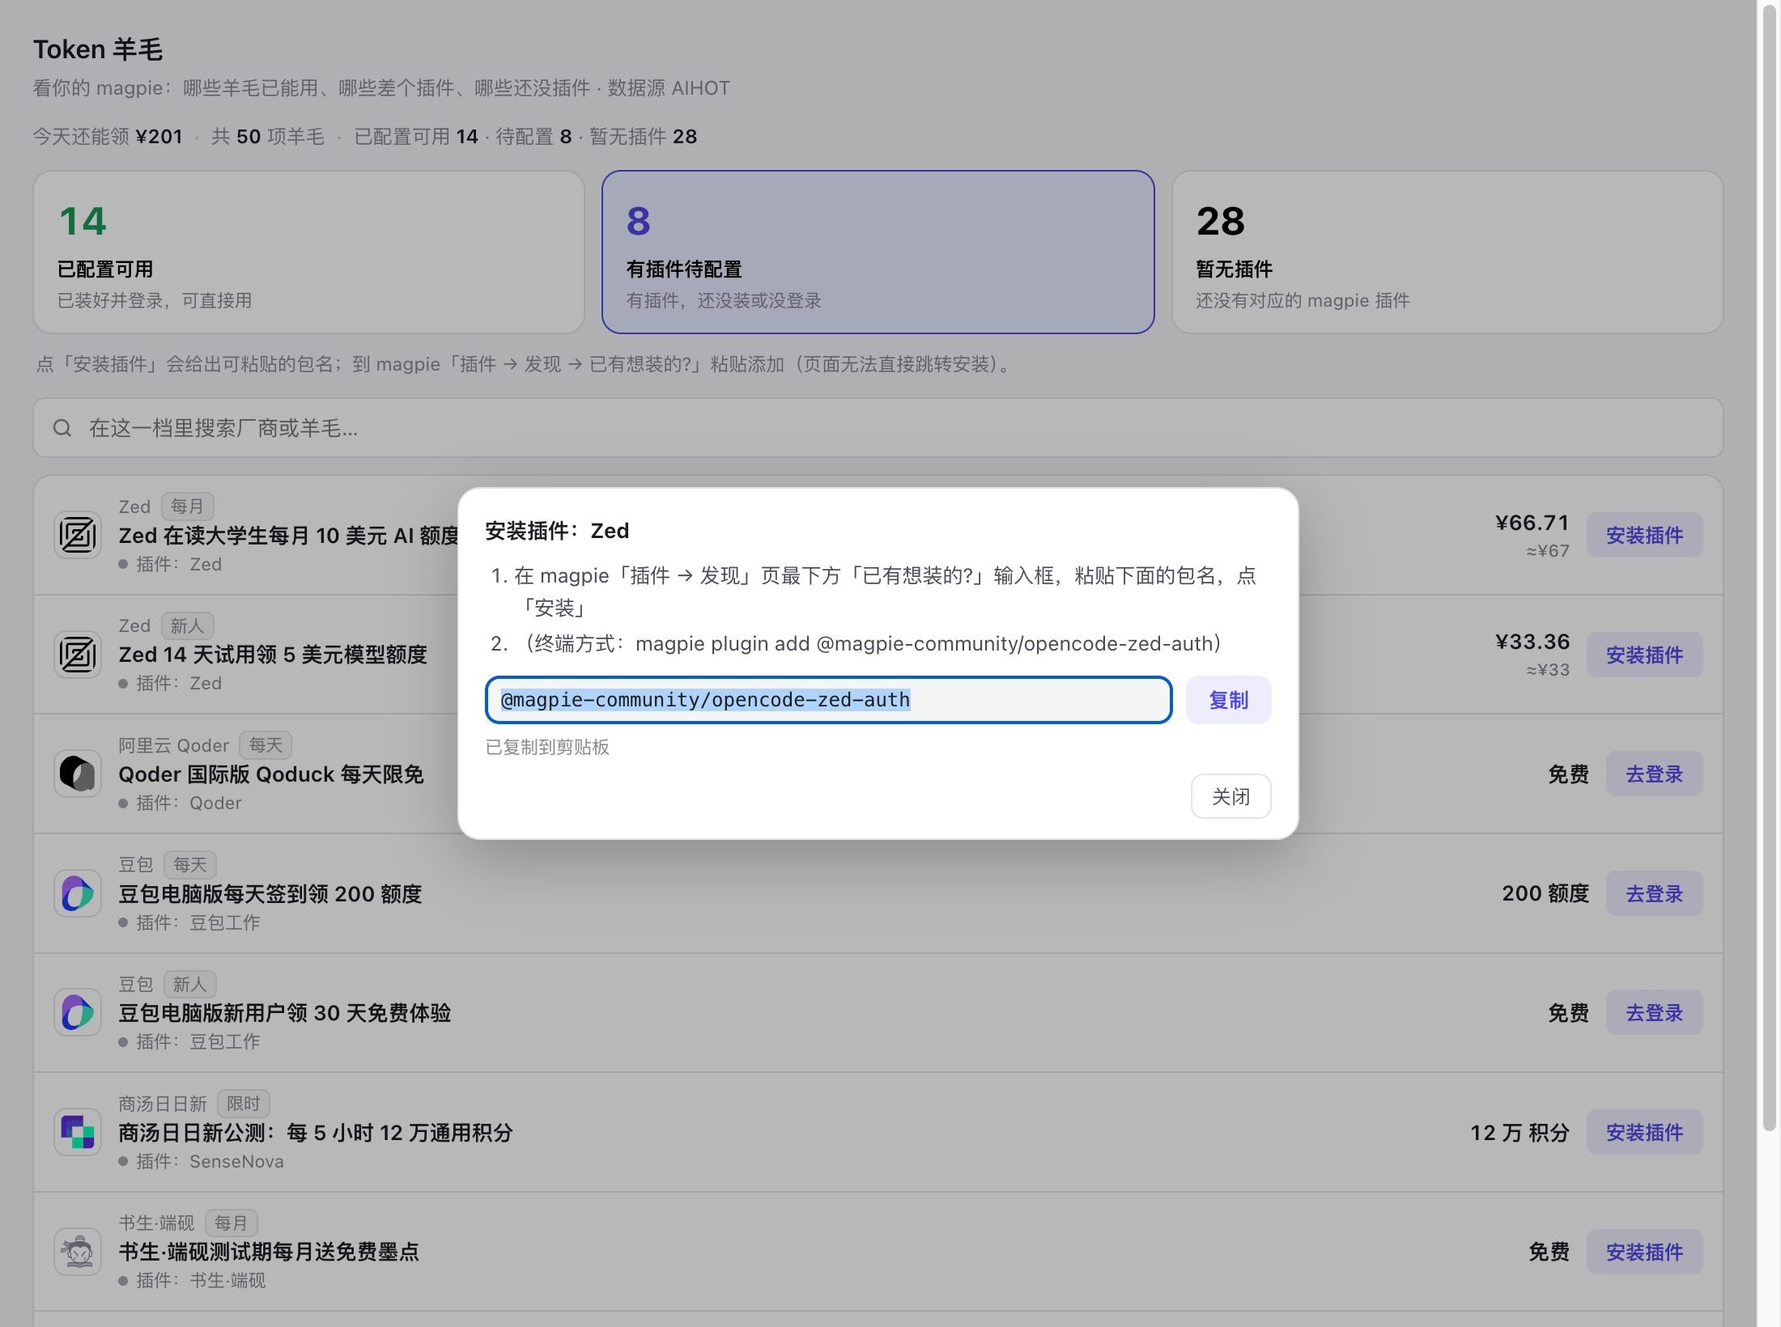
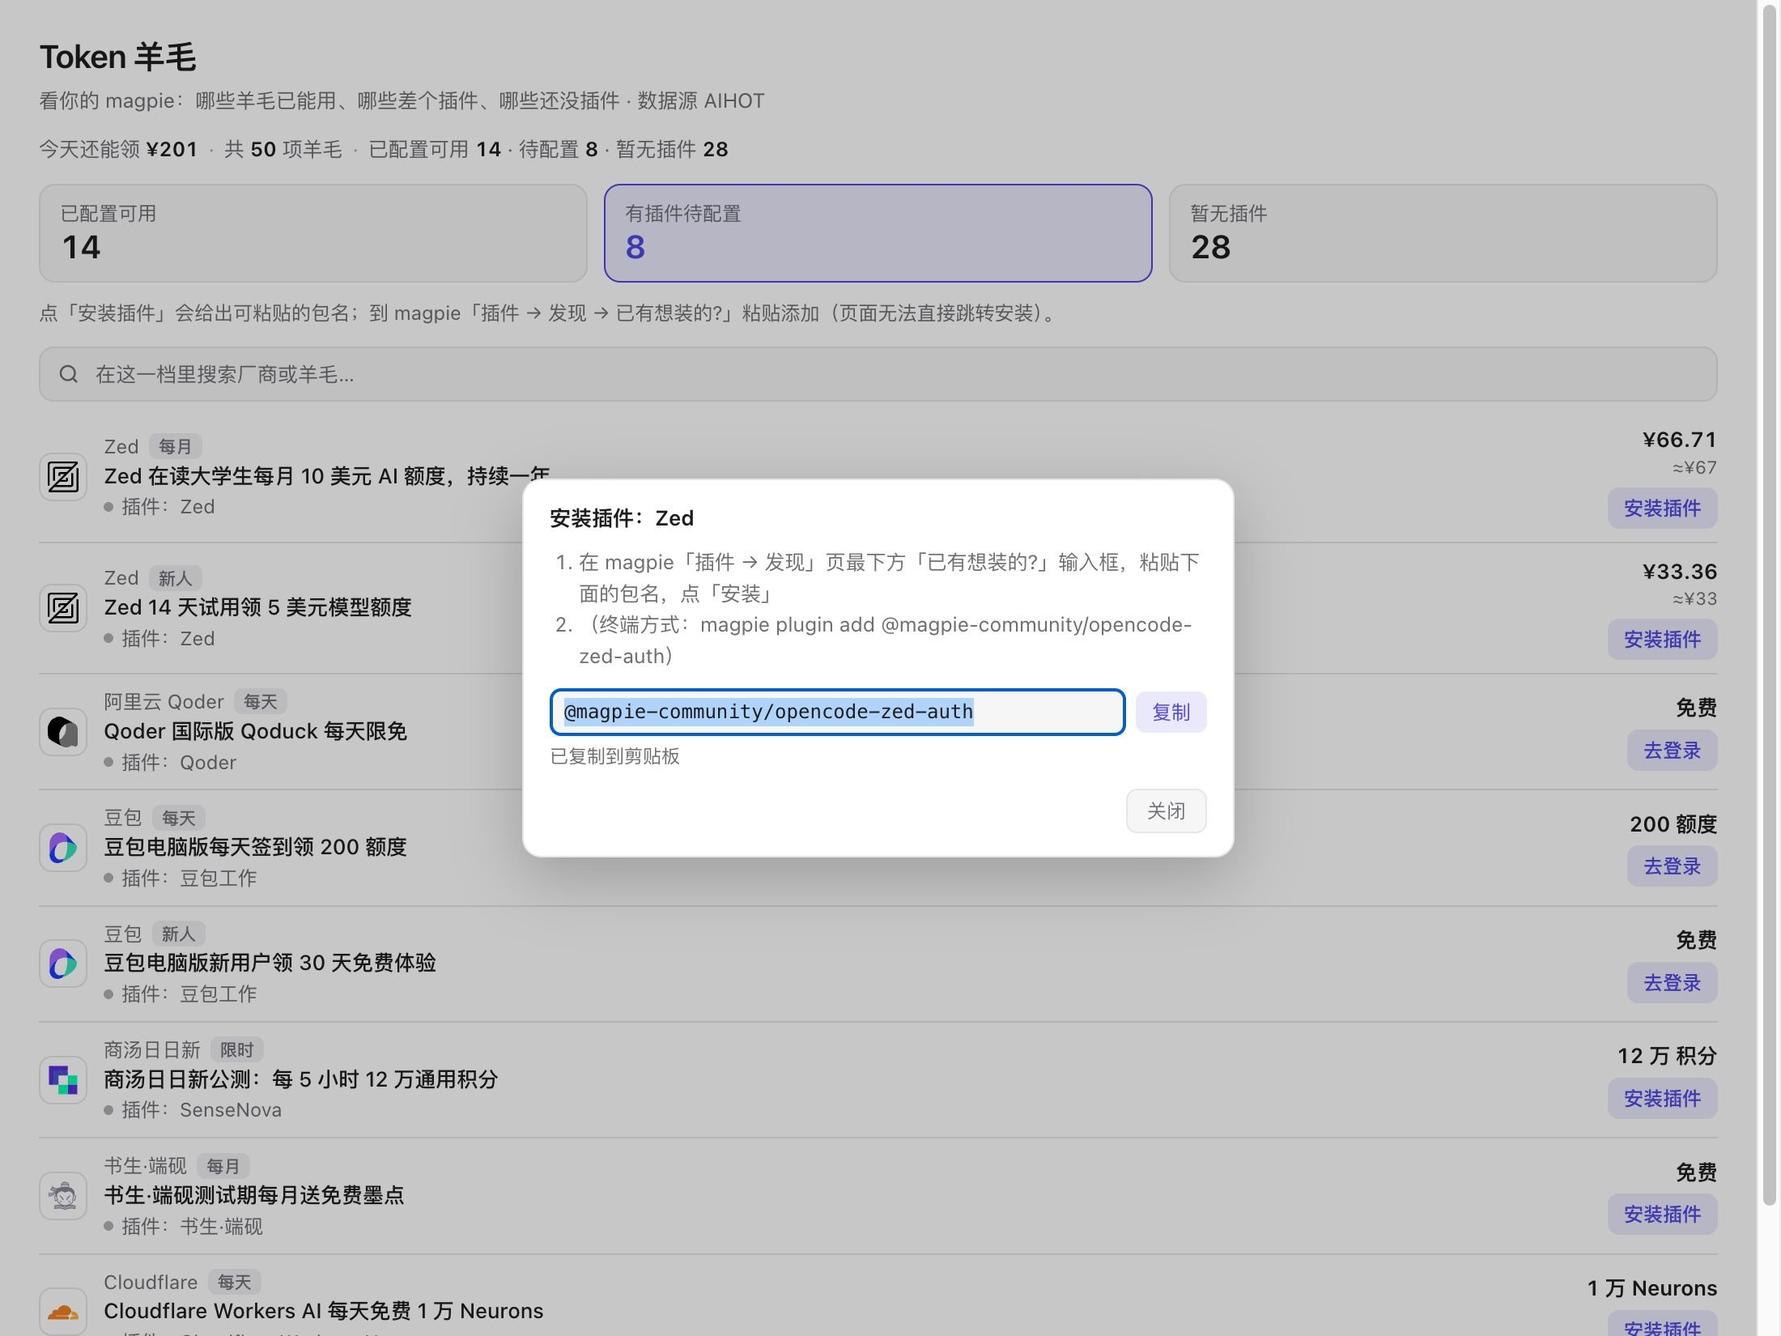
style: magpie-native UI (magpie-* tokens, 13px system font, compact tiles + divider list, native popover); refresh previews

Changed region(s): [[0.0, 0.311, 0.9582, 1.0], [0.0, 0.0311, 0.8036, 0.2799], [0.8345, 0.4665, 1.0, 1.0]]

diff --git a/page/style.css b/page/style.css
@@ -1,134 +1,113 @@
-/* Token 羊毛 · 紧凑三档视图 · magpie 原生 token。
-   只走 magpie 桥接注入的 15 个 token；卡片/面板无静止投影，数字用 --fg，主按钮 accent-soft。 */
-
+/* 跟随 magpie 主题：优先用宿主注入的 --magpie-* 变量；无 bridge 时用回退值。 */
 :root {
-  --bg: var(--magpie-bg, #f4f4f6);
-  --card: var(--magpie-card, #ffffff);
-  --fg: var(--magpie-fg, #1c1c21);
-  --fg2: var(--magpie-fg-2, #4a4a55);
-  --muted: var(--magpie-muted, #85858d);
-  --faint: var(--magpie-faint, #a5a5ad);
-  --line: var(--magpie-line, #e3e3e8);
+  --bg: var(--magpie-bg, #ffffff);
+  --fg: var(--magpie-fg, #1d1d1f);
+  --fg-2: var(--magpie-fg-2, var(--magpie-muted, #6e6e73));
+  --muted: var(--magpie-muted, #6e6e73);
+  --line: var(--magpie-line, #e5e5ea);
+  --card: var(--magpie-card, #f6f6f7);
+  --pill: var(--magpie-pill, var(--magpie-card, #f0f0f2));
   --accent: var(--magpie-accent, #4f46e5);
-  --accent-soft: var(--magpie-accent-soft, #eeedfd);
+  --accent-soft: var(--magpie-accent-soft, rgba(79, 70, 229, .12));
   --accent-fg: var(--magpie-accent-fg, #ffffff);
-  --green: var(--magpie-green, #189a58);
-  --amber: var(--magpie-amber, #c07f16);
-  --red: var(--magpie-red, #c0392b);
-  --font: var(--magpie-font, -apple-system, BlinkMacSystemFont, "Segoe UI", "PingFang SC", "Microsoft YaHei", system-ui, sans-serif);
-  --code: var(--magpie-code, ui-monospace, Menlo, monospace);
-  --card2: color-mix(in oklab, var(--fg) 4%, var(--card));
-  --ok-soft: color-mix(in oklab, var(--green) 14%, var(--card));
-  --warn-soft: color-mix(in oklab, var(--amber) 18%, var(--card));
-  --accent-dim: color-mix(in oklab, var(--accent) 12%, var(--card));
-  --hover-shadow: 0 4px 14px rgba(20, 22, 30, .07);
+  --green: var(--magpie-green, #15803d);
+  --amber: var(--magpie-amber, #b45309);
+  --red: var(--magpie-red, #d70015);
+  --font: var(--magpie-font, -apple-system, BlinkMacSystemFont, "Segoe UI", "PingFang SC", "Hiragino Sans GB", "Microsoft YaHei", system-ui, sans-serif);
+}
+@media (prefers-color-scheme: dark) {
+  :root { --bg: var(--magpie-bg, #1a1a1c); --fg: var(--magpie-fg, #ececef); --fg-2: var(--magpie-fg-2, var(--magpie-muted, #b4b4bc)); --muted: var(--magpie-muted, #9a9aa2); --line: var(--magpie-line, #33333a); --card: var(--magpie-card, #242428); --pill: var(--magpie-pill, #2c2c31); }
 }
 :root[data-theme="dark"] {
-  --bg: #1a1a1e; --card: #232327; --fg: #ededf1; --fg2: #b9b9c1;
-  --muted: #8b8b94; --faint: #56565f; --line: #333339;
-  --accent: #a5b4fc; --accent-soft: #2b2c47; --accent-fg: #14142a;
-  --green: #46c07f; --amber: #e0a63a; --red: #e06c60;
-  --hover-shadow: 0 4px 14px rgba(0, 0, 0, .35);
+  --bg: var(--magpie-bg, #1a1a1c); --fg: var(--magpie-fg, #ececef); --fg-2: var(--magpie-fg-2, var(--magpie-muted, #b4b4bc)); --muted: var(--magpie-muted, #9a9aa2); --line: var(--magpie-line, #33333a); --card: var(--magpie-card, #242428); --pill: var(--magpie-pill, #2c2c31);
 }
 
 * { box-sizing: border-box; }
-html, body { margin: 0; }
-body { background: var(--bg); color: var(--fg); font: 13px/1.5 var(--font); -webkit-font-smoothing: antialiased; padding: 18px 20px 40px; }
-a { color: var(--accent); text-decoration: none; }
-a:hover { text-decoration: underline; }
-button { font: inherit; cursor: pointer; }
-.num { font-variant-numeric: tabular-nums; }
+html, body { margin: 0; background: var(--bg); color: var(--fg); }
+body {
+  padding: 20px 24px 32px;
+  font: 13px/1.45 var(--font);
+  -webkit-font-smoothing: antialiased;
+  text-rendering: optimizeLegibility;
+}
+button, input { font: inherit; }
+h1 { font-size: 20px; font-weight: 600; letter-spacing: -.01em; margin: 0; }
+.top { display: flex; align-items: flex-start; justify-content: space-between; gap: 12px; }
+.sub { margin: 4px 0 0; font-size: 12.5px; color: var(--muted); }
 
-/* top */
-.top { display: flex; align-items: flex-start; justify-content: space-between; gap: 16px; margin-bottom: 12px; }
-.top h1 { font-size: 16px; font-weight: 600; margin: 0 0 3px; }
-.top .sub { color: var(--muted); font-size: 12px; }
-.top .sub a { color: var(--muted); text-decoration: underline; text-underline-offset: 2px; }
-.theme-toggle { background: var(--card); border: 1px solid var(--line); color: var(--muted); border-radius: 999px; padding: 5px 12px; font-size: 12px; white-space: nowrap; }
-.theme-toggle:hover { color: var(--fg); }
-
-/* summary line */
-.summary { color: var(--muted); font-size: 12px; margin-bottom: 12px; }
+.summary { margin: 12px 0 12px; font-size: 12.5px; color: var(--muted); font-variant-numeric: tabular-nums; }
 .summary b { color: var(--fg); font-weight: 600; }
-.summary .sep { margin: 0 7px; opacity: .5; }
+.summary .sep { margin: 0 6px; opacity: .6; }
 
-/* three buckets (as tabs) */
-.buckets { display: grid; grid-template-columns: repeat(3, 1fr); gap: 10px; margin-bottom: 14px; }
-.bucket {
-  text-align: left; background: var(--card); border: 1px solid var(--line); border-radius: 12px;
-  padding: 12px 14px; transition: border-color .15s ease, background .15s ease;
+/* 三个计数：官方 .tile 风格 */
+.tiles { display: grid; grid-template-columns: repeat(3, minmax(0, 1fr)); gap: 10px; margin-bottom: 6px; }
+.tile {
+  display: flex; flex-direction: column; align-items: flex-start; gap: 2px;
+  background: var(--card); border: 1px solid var(--line); border-radius: 10px;
+  padding: 10px 12px; text-align: left; color: inherit; cursor: pointer; min-width: 0;
+  transition: border-color .14s ease, background .14s ease;
 }
-.bucket:hover { border-color: var(--muted); }
-.bucket.on { border-color: var(--accent); background: var(--accent-dim); }
-.bucket .bnum { font-size: 24px; font-weight: 700; letter-spacing: -.01em; font-variant-numeric: tabular-nums; }
-.bucket .blabel { font-size: 12px; font-weight: 600; margin-top: 3px; }
-.bucket .bhint { font-size: 11px; color: var(--muted); margin-top: 3px; line-height: 1.4; }
-.bucket.on .bnum { color: var(--accent); }
-.b-ready .bnum { color: var(--green); } .bucket.on.b-ready .bnum { color: var(--accent); }
-.tabhint { font-size: 11.5px; color: var(--muted); margin: -4px 0 12px; padding-left: 2px; line-height: 1.5; }
-.tabhint b { color: var(--fg2); font-weight: 600; }
+.tile:hover:not(.on) { border-color: color-mix(in srgb, var(--fg) 16%, var(--line)); }
+.tile.on { border-color: var(--accent); background: var(--accent-soft); }
+.tile .k { font-size: 12px; color: var(--muted); line-height: 1.2; }
+.tile .v { font-size: 20px; font-weight: 600; font-variant-numeric: tabular-nums; line-height: 1.15; }
+.tile.on .v { color: var(--accent); }
 
-/* toolbar */
-.toolbar { display: flex; margin-bottom: 10px; }
-.search { flex: 1 1 auto; display: flex; align-items: center; gap: 7px; background: var(--card); border: 1px solid var(--line); border-radius: 8px; padding: 7px 10px; }
-.search input { flex: 1; border: 0; outline: 0; background: transparent; color: var(--fg); font: inherit; }
-.search svg { color: var(--muted); flex: none; }
+.hint { margin: 10px 0 12px; min-height: 1.45em; font-size: 12px; color: var(--muted); }
 
-/* list panel */
-.panel { background: var(--card); border: 1px solid var(--line); border-radius: 12px; overflow: hidden; }
-.list { display: flex; flex-direction: column; }
-.row { display: flex; align-items: center; gap: 10px; padding: 10px 12px; border-bottom: 1px solid var(--line); }
+.find { display: flex; align-items: center; gap: 7px; background: var(--card); border: 1px solid var(--line); border-radius: 9px; padding: 6px 10px; margin-bottom: 6px; color: var(--muted); }
+.find:focus-within { border-color: var(--accent); box-shadow: 0 0 0 3px color-mix(in srgb, var(--accent) 18%, transparent); }
+.find input { flex: 1; min-width: 0; border: 0; outline: none; background: none; color: var(--fg); font-size: 12.5px; }
+.find input::placeholder { color: var(--muted); }
+
+.list { margin-top: 2px; }
+.row { display: grid; grid-template-columns: auto minmax(0, 1fr) auto; gap: 10px; align-items: center; padding: 8px 0; border-bottom: 1px solid var(--line); }
 .row:last-child { border-bottom: 0; }
-.row:hover { background: var(--card2); }
-.avatar { width: 30px; height: 30px; border-radius: 8px; flex: none; display: grid; place-items: center; color: #fff; font-weight: 700; font-size: 12px; }
-.rmain { flex: 1; min-width: 0; }
-.rprov { font-size: 11px; color: var(--muted); display: flex; align-items: center; gap: 6px; }
-.rtitle { font-size: 13px; font-weight: 600; line-height: 1.35; overflow: hidden; text-overflow: ellipsis; white-space: nowrap; }
-.rsub { font-size: 11px; color: var(--muted); display: flex; align-items: center; gap: 5px; margin-top: 1px; }
-.dot { width: 6px; height: 6px; border-radius: 50%; display: inline-block; flex: none; }
-.dot.ok { background: var(--green); } .dot.warn { background: var(--amber); } .dot.mut { background: var(--faint); }
-.rright { display: flex; align-items: center; gap: 10px; flex: none; }
-.rval { font-size: 13px; font-weight: 600; font-variant-numeric: tabular-nums; text-align: right; min-width: 54px; }
-.rval small { display: block; font-size: 10.5px; font-weight: 500; color: var(--muted); }
-.cta { border: 1px solid var(--line); background: transparent; color: var(--fg2); border-radius: 6px; padding: 4px 11px; font-size: 12px; font-weight: 550; white-space: nowrap; }
-.cta:hover { border-color: var(--muted); }
-.cta.primary { background: var(--accent-soft); border-color: transparent; color: var(--accent); font-weight: 600; }
-.cta.primary:hover { background: var(--accent); color: var(--accent-fg); }
-.tag { font-size: 10.5px; color: var(--muted); background: var(--card2); border: 1px solid var(--line); border-radius: 5px; padding: 0 5px; }
 
-.empty { text-align: center; color: var(--muted); padding: 44px 20px; }
-.foot-note { margin-top: 16px; color: var(--muted); font-size: 11px; line-height: 1.6; }
-.foot-note code { font-family: var(--code); background: var(--card2); padding: 1px 5px; border-radius: 5px; }
-
-.toast { position: fixed; left: 50%; bottom: 26px; transform: translateX(-50%) translateY(20px); background: var(--fg); color: var(--bg); padding: 9px 16px; border-radius: 10px; font-size: 12.5px; opacity: 0; pointer-events: none; transition: opacity .18s ease, transform .18s ease; max-width: 90%; }
-.toast.show { opacity: 1; transform: translateX(-50%) translateY(0); }
-
-@media (max-width: 640px) {
-  .buckets { grid-template-columns: 1fr; }
-  .bucket { display: flex; align-items: baseline; gap: 10px; padding: 9px 12px; }
-  .bucket .bhint { display: none; }
-  body { padding: 14px 14px 30px; }
-}
-@media (prefers-reduced-motion: reduce) { * { transition: none !important; } }
-
-/* provider 图标（本地缓存，同源 img-src 'self'） */
-.avatar.logo { background: #ffffff; border: 1px solid var(--line); padding: 3px; }
-.avatar.logo img { width: 100%; height: 100%; object-fit: contain; display: block; border-radius: 6px; background: transparent; }
-/* 深色模式下给品牌 logo 一个浅色底片，黑色 logo（TRAE/OpenCode/Zed/ZCode…）也能看清 */
+.avatar { flex: none; width: 30px; height: 30px; border-radius: 8px; display: grid; place-items: center; overflow: hidden; font-size: 12px; font-weight: 600; color: #fff; }
+.avatar.logo { background: #ffffff; border: 1px solid var(--line); }
+.avatar.logo img { width: 19px; height: 19px; object-fit: contain; }
 :root[data-theme="dark"] .avatar.logo { background: #eef0f4; border-color: #3a3a42; }
-.avatar.gen { border: 0; color: #fff; font-weight: 700; font-size: 13px; letter-spacing: .3px; }
 
-/* 命令/登录气泡（沙盒里剪贴板常被拦，故给可手动复制的输入框） */
-.pop-wrap { position: fixed; inset: 0; background: rgba(0,0,0,.28); display: flex; align-items: center; justify-content: center; z-index: 50; padding: 20px; }
-.pop { background: var(--card); border: 1px solid var(--line); border-radius: 14px; box-shadow: 0 12px 40px rgba(0,0,0,.25); max-width: 520px; width: 100%; max-height: 82vh; overflow: auto; padding: 16px 16px 12px; }
-.pop-h { font-size: 13px; font-weight: 650; margin-bottom: 8px; }
-.pop-steps { margin: 0 0 10px; padding-left: 18px; color: var(--fg2); font-size: 12.5px; line-height: 1.6; }
-.pop-steps li { margin: 2px 0; }
-.pop-copy { display: flex; gap: 8px; }
-.pop-copy input { flex: 1; font-family: var(--code); font-size: 12px; color: var(--fg); background: var(--card2); border: 1px solid var(--line); border-radius: 8px; padding: 7px 9px; }
-.pop-btn { background: var(--accent-soft); color: var(--accent); border: 0; border-radius: 8px; padding: 0 14px; font-weight: 600; font-size: 12.5px; }
-.pop-btn:hover { background: var(--accent); color: var(--accent-fg); }
-.pop-tip { font-size: 11px; color: var(--muted); margin-top: 6px; min-height: 14px; }
-.pop-foot { text-align: right; margin-top: 8px; }
-.pop-close { background: transparent; border: 1px solid var(--line); color: var(--fg2); border-radius: 8px; padding: 4px 12px; font-size: 12px; }
-.pop-close:hover { border-color: var(--muted); }
+.rmain { min-width: 0; }
+.rprov { display: flex; align-items: center; gap: 6px; font-size: 12px; color: var(--muted); overflow: hidden; }
+.tag { flex: none; font-size: 10.5px; font-weight: 500; padding: 0 6px; height: 16px; line-height: 16px; border-radius: 5px; background: var(--pill); color: var(--fg-2); }
+.rtitle { font-size: 13px; font-weight: 500; color: var(--fg); white-space: nowrap; overflow: hidden; text-overflow: ellipsis; }
+.rsub { display: flex; align-items: center; gap: 5px; margin-top: 1px; font-size: 12px; color: var(--muted); }
+.dot { width: 6px; height: 6px; border-radius: 50%; display: inline-block; background: var(--muted); flex: none; }
+.dot.ok { background: var(--green); }
+.dot.warn { background: var(--amber); }
+.dot.mut { background: var(--muted); opacity: .55; }
+
+.rright { display: flex; flex-direction: column; align-items: flex-end; gap: 4px; text-align: right; }
+.rval { font-size: 13px; font-weight: 600; font-variant-numeric: tabular-nums; white-space: nowrap; }
+.rval small { display: block; font-size: 11px; font-weight: 400; color: var(--muted); }
+.cta { font-size: 12px; font-weight: 500; white-space: nowrap; color: var(--fg-2); background: var(--card); border: 1px solid var(--line); border-radius: 7px; padding: 3px 9px; cursor: pointer; transition: background .14s, color .14s, border-color .14s; }
+.cta:hover { color: var(--fg); border-color: color-mix(in srgb, var(--fg) 16%, var(--line)); }
+.cta.primary { color: var(--accent); background: var(--accent-soft); border-color: transparent; }
+.cta.primary:hover { color: var(--accent-fg); background: var(--accent); }
+
+.empty { color: var(--muted); margin: 14px 0; font-size: 13px; }
+.foot-note { color: var(--muted); font-size: 11.5px; line-height: 1.5; margin: 16px 0 0; }
+
+/* 气泡（安装 / 登录 / 复制链接） */
+.pop-wrap { position: fixed; inset: 0; background: rgba(0, 0, 0, .22); display: flex; align-items: center; justify-content: center; padding: 20px; z-index: 50; }
+.pop { width: 440px; max-width: 92vw; max-height: 82vh; overflow: auto; background: var(--bg); color: var(--fg); border: 1px solid var(--line); border-radius: 12px; padding: 14px 16px; box-shadow: 0 12px 40px rgba(0, 0, 0, .22); }
+.pop-h { font-size: 13px; font-weight: 600; margin-bottom: 8px; }
+.pop-steps { margin: 0 0 10px; padding-left: 18px; font-size: 12.5px; line-height: 1.55; color: var(--fg-2); }
+.pop-copy { display: flex; gap: 6px; align-items: center; }
+.pop-copy input { flex: 1; min-width: 0; background: var(--card); border: 1px solid var(--line); border-radius: 6px; padding: 5px 8px; color: var(--fg); font-family: var(--magpie-code, ui-monospace, Menlo, monospace); font-size: 12px; }
+.pop-btn { font-size: 12px; color: var(--accent); background: var(--accent-soft); border: 0; border-radius: 6px; padding: 4px 10px; cursor: pointer; }
+.pop-tip { min-height: 1.3em; font-size: 11.5px; color: var(--muted); margin-top: 4px; }
+.pop-foot { display: flex; justify-content: flex-end; margin-top: 12px; }
+.pop-close { font-size: 12px; color: var(--fg-2); background: var(--card); border: 1px solid var(--line); border-radius: 7px; padding: 4px 12px; cursor: pointer; }
+
+.toast { position: fixed; left: 50%; bottom: 24px; transform: translateX(-50%); background: var(--fg); color: var(--bg); font-size: 12px; padding: 6px 12px; border-radius: 8px; opacity: 0; pointer-events: none; transition: opacity .18s; }
+.toast.show { opacity: 1; }
+
+@media (max-width: 560px) {
+  body { padding: 16px 16px 24px; }
+  .tiles { gap: 8px; }
+  .tile { padding: 8px 10px; }
+  .tile .v { font-size: 18px; }
+}

diff --git a/page/index.html b/page/index.html
@@ -10,24 +10,22 @@
 <script src="app.js" defer></script>
 </head>
 <body>
-  <div class="top">
+  <header class="top">
     <div>
       <h1>Token 羊毛</h1>
-      <div class="sub">看你的 magpie：哪些羊毛已能用、哪些差个插件、哪些还没插件 · 数据源 AIHOT</div>
+      <p class="sub">看你的 magpie：哪些羊毛已能用、哪些差个插件、哪些还没插件 · 数据源 AIHOT</p>
     </div>
-  </div>
-  <div class="summary" id="summary"></div>
-  <div class="buckets" id="buckets"></div>
-  <div class="tabhint" id="tabhint"></div>
-  <div class="toolbar">
-    <label class="search">
-      <svg width="15" height="15" viewBox="0 0 24 24" fill="none" stroke="currentColor" stroke-width="2"><circle cx="11" cy="11" r="7"/><path d="M20 20l-3.5-3.5"/></svg>
-      <input id="q" type="search" placeholder="在这一档里搜索厂商或羊毛…" autocomplete="off">
-    </label>
-  </div>
-  <div class="panel"><div class="list" id="list"></div></div>
-  <div class="empty" id="empty" style="display:none">这一档没有符合条件的羊毛</div>
-  <div class="foot-note" id="footNote"></div>
+  </header>
+  <p class="summary" id="summary"></p>
+  <div class="tiles" id="buckets"></div>
+  <p class="hint" id="tabhint"></p>
+  <label class="find">
+    <svg width="15" height="15" viewBox="0 0 24 24" fill="none" stroke="currentColor" stroke-width="2" aria-hidden="true"><circle cx="11" cy="11" r="7"/><path d="M20 20l-3.5-3.5"/></svg>
+    <input id="q" type="search" placeholder="在这一档里搜索厂商或羊毛…" autocomplete="off">
+  </label>
+  <div class="list" id="list"></div>
+  <p class="empty" id="empty" style="display:none">这一档没有符合条件的羊毛</p>
+  <p class="foot-note" id="footNote"></p>
   <div class="toast" id="toast"></div>
 </body>
 </html>

diff --git a/page/app.js b/page/app.js
@@ -29,7 +29,7 @@
 
   function applyTheme(dark) { document.documentElement.dataset.theme = dark ? "dark" : "light"; }
   function renderSummary(c) { $("#summary").innerHTML = summaryHtml(meta, deals.length, c); }
-  function renderBuckets(c) { $("#buckets").innerHTML = TABS.map(([k, label, hint]) => `<button class="bucket b-${k} ${state.tab === k ? "on" : ""}" data-tab="${k}"><div class="bnum">${c[k]}</div><div class="blabel">${esc(label)}</div><div class="bhint">${esc(hint)}</div></button>`).join(""); $$(".bucket").forEach((b) => (b.onclick = () => { state.tab = b.dataset.tab; render(); })); }
+  function renderBuckets(c) { const el = $("#buckets"); el.innerHTML = TABS.map(([k, label]) => `<button type="button" class="tile ${state.tab === k ? "on" : ""}" data-tab="${k}" aria-pressed="${state.tab === k}"><span class="k">${esc(label)}</span><span class="v">${c[k]}</span></button>`).join(""); $$(".tile", el).forEach((b) => (b.onclick = () => { state.tab = b.dataset.tab; render(); })); }
   function renderList() {
     const q = state.q.trim().toLowerCase();
     const rows = deals.filter((d) => bucketOf(d, mapping, demoState).key === state.tab)
